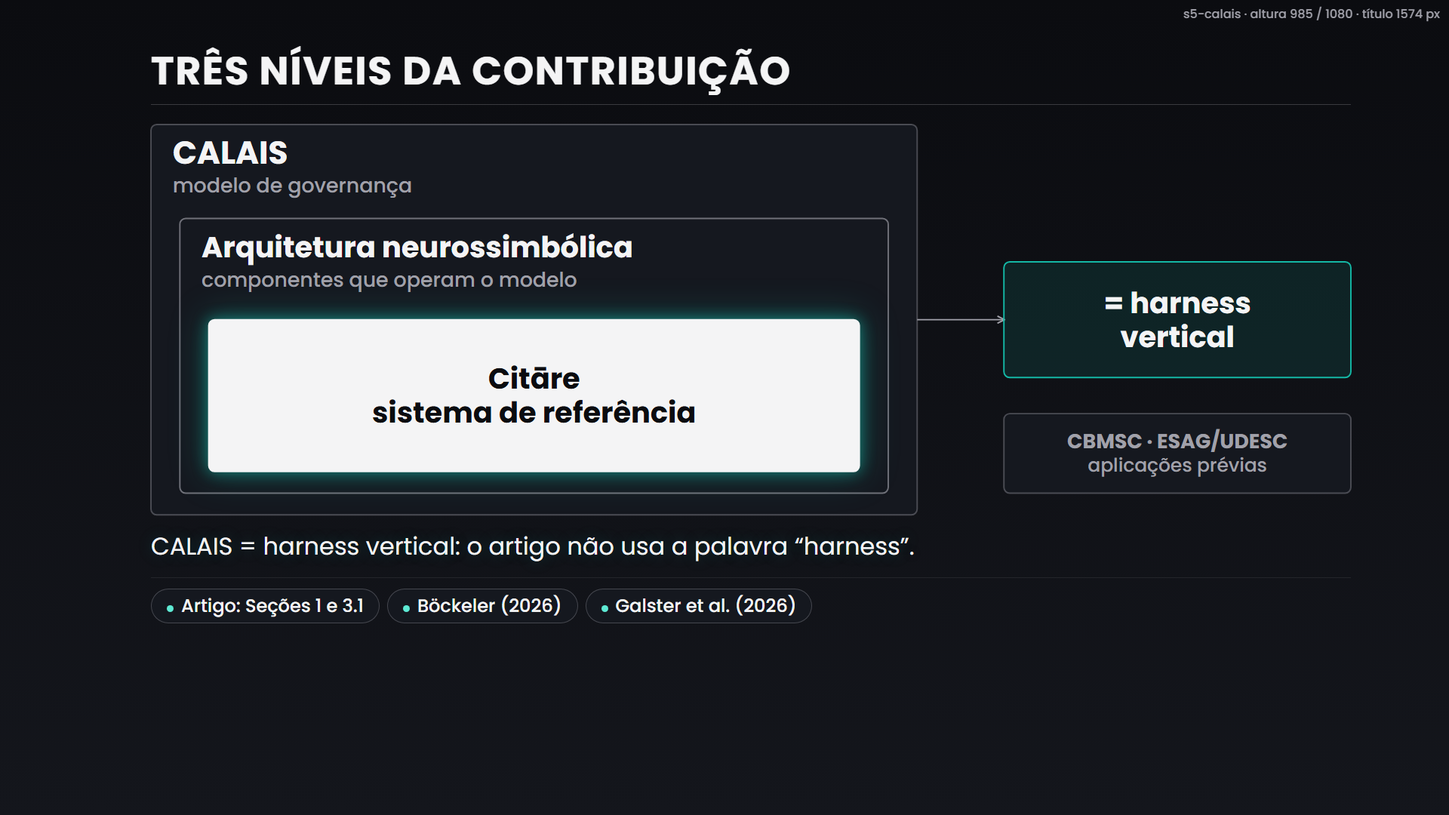
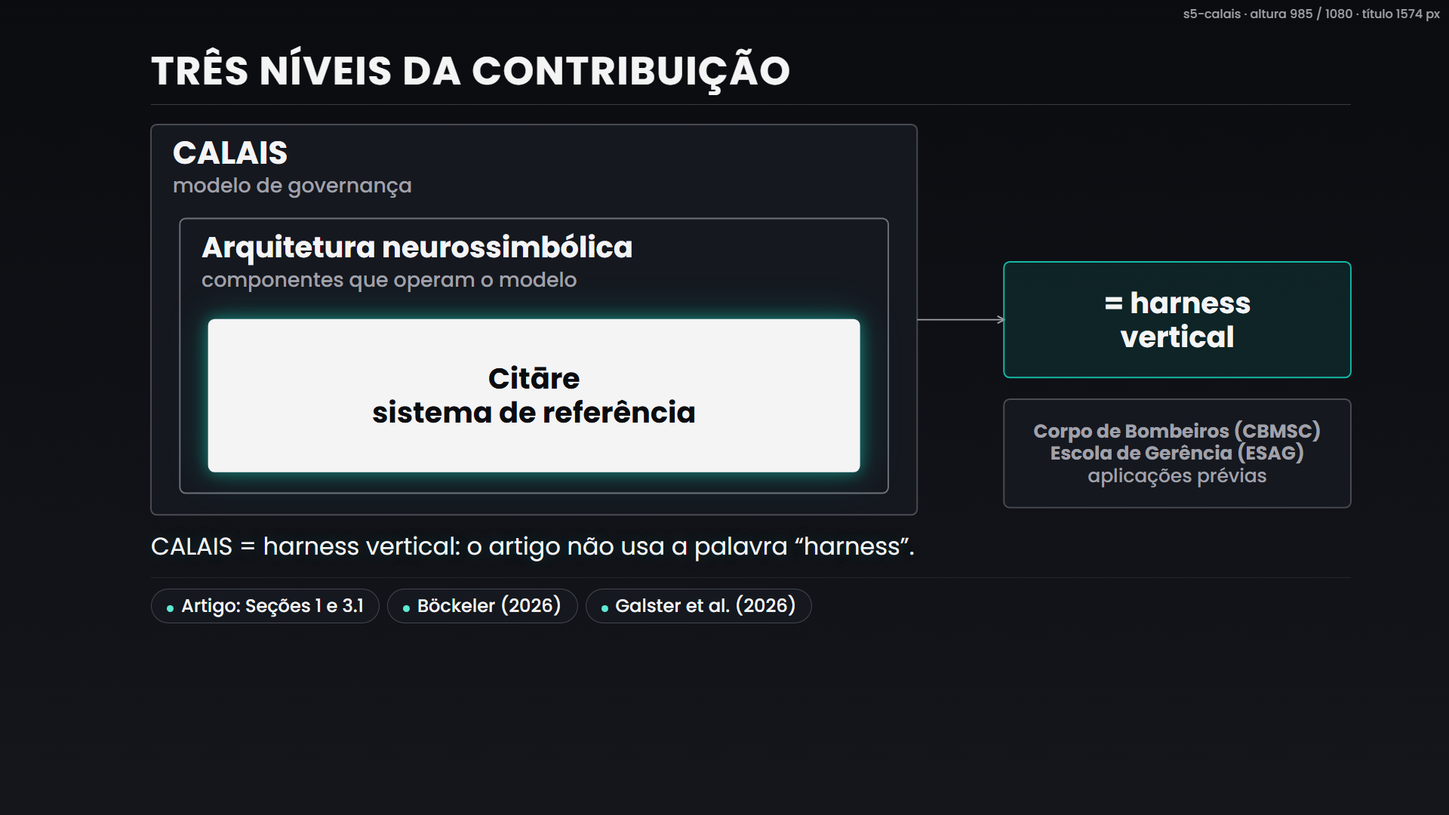
Painéis: erro em vermelho (sem âmbar), Rudin fiel, ESAG por extenso, portas em série para as quatro condições e referências que cabem na tela

Changed region(s): [[0.6875, 0.4889, 0.9375, 0.6111]]

diff --git a/web/paineis.js b/web/paineis.js
@@ -71,7 +71,8 @@
       K.text({ x: 910, y: 261, t: 'PPGEGC / UFSC', size: 28, tone: 'nevoa' }) +
       K.icon('db', { x: 800, y: 340, s: 80, step: 8 }) +
       K.text({ x: 910, y: 382, t: 'CBMSC · ESAG/UDESC', size: 44, weight: 'b' }) +
-      K.text({ x: 910, y: 426, t: 'evidência exploratória, em Santa Catarina', size: 28, tone: 'nevoa' }),
+      K.text({ x: 910, y: 424, t: 'Corpo de Bombeiros Militar de Santa Catarina', size: 26, tone: 'nevoa' }) +
+      K.text({ x: 910, y: 456, t: 'Escola Superior de Administração e Gerência (UDESC)', size: 26, tone: 'nevoa' }),
       'Ficha do artigo: três níveis de contribuição, autor e casos'),
     'Modelo, arquitetura e sistema de referência; evidência exploratória de dois casos.',
     [F('art-dsr', 'Artigo: método DSR'), F('art-escopo', 'Artigo: escopo')], { cred: 'Título e dados do artigo #160 (versão final).' });
@@ -79,7 +80,7 @@
     '<dl class="ficha"><dt>Título (EN)</dt><dd><em>Neurosymbolic Artificial Intelligence and Knowledge Engineering: Beyond Hallucinations and Auditable Decisions in the Intelligent State</em></dd>' +
     '<dt>Artigo</dt><dd>#160 · CIKI 2026 · apresentação em 28/10/2026</dd><dt>Autor</dt><dd>Alexandre Pinto Calaes · PPGEGC/UFSC</dd>' +
     '<dt>Método</dt><dd>Design Science Research (DSR), em seis ciclos rastreáveis</dd>' +
-    '<dt>Evidência</dt><dd>Aplicações prévias no CBMSC e na ESAG/UDESC: exploratória, em Santa Catarina</dd><dt>Apoio</dt><dd>CAPES, Finance Code 001</dd></dl>',
+    '<dt>Evidência</dt><dd>Aplicações prévias no Corpo de Bombeiros Militar de Santa Catarina (CBMSC) e na Escola Superior de Administração e Gerência (ESAG/UDESC): exploratória, em Santa Catarina</dd><dt>Apoio</dt><dd>CAPES, Finance Code 001</dd></dl>',
     [F('art-dsr', 'Artigo: método DSR'), F('art-escopo', 'Artigo: escopo')]);
 
   /* s1-paleta: quatro pinos + legenda de cores */
@@ -159,7 +160,7 @@
       g += K.bar({ x: 1180, y: 70 + i * 66, w: 330, h: 42, v: pr[i], max: 0.6, t: a[0], val: pct(pr[i]) + '%', step: 1 + i, tone: i === 0 ? 'err' : 'gelo' });
     });
     g += K.text({ x: 0, y: 300, t: 'plausível, mas sem fonte', size: 30, tone: 'err' });
-    panel('s2-softmax', 'Por que o modelo alucina', K.svg(W, 420, g, 'Fórmula softmax e barras de probabilidade com uma barra âmbar'),
+    panel('s2-softmax', 'Por que o modelo alucina', K.svg(W, 420, g, 'Fórmula softmax e barras de probabilidade com uma barra vermelha'),
       'O modelo escolhe o provável, não o verdadeiro. Valores ilustrativos.',
       [F('huang2025', 'Huang et al. (2025)'), F('softmax', 'Definição da softmax')], { selos: [sel('ilustrativo', 'sol')] });
     det('s2-softmax', 'Softmax: detalhes',
@@ -223,17 +224,16 @@
   panel('s3-rudin', 'Explicar depois não basta',
     K.svg(W, 400,
       K.lane({ x: 0, y: 0, w: W, h: 170, t: '', step: 1 }) + K.lane({ x: 0, y: 220, w: W, h: 170, t: '', step: 5 }) +
-      K.box({ x: 60, y: 45, w: 330, h: 80, t: 'decide', step: 2, tone: 'nevoa' }) + K.arrow({ pts: [[390, 85], [560, 85]], step: 3, tone: 'nevoa' }) +
-      K.box({ x: 560, y: 45, w: 330, h: 80, t: 'dano', step: 3, tone: 'err' }) + K.arrow({ pts: [[890, 85], [1060, 85]], step: 4, tone: 'nevoa' }) +
-      K.box({ x: 1060, y: 45, w: 420, h: 80, t: 'explica depois', step: 4, tone: 'nevoa' }) +
-      K.box({ x: 60, y: 265, w: 330, h: 80, t: 'verifica antes', step: 6, fill: true }) + K.arrow({ pts: [[390, 305], [560, 305]], step: 7 }) +
-      K.box({ x: 560, y: 265, w: 330, h: 80, t: 'assina', step: 8, fill: 'solid' }),
-      'Duas linhas do tempo: explicar depois e verificar antes'),
-    'Em decisão de alto impacto, a prova vem antes da assinatura (Rudin, 2019).',
-    [F('rudin', 'Rudin (2019)'), F('art-tab1', 'Artigo: Tabela 1')]);
+      K.box({ x: 60, y: 45, w: 380, h: 80, t: 'caixa-preta decide', step: 2, tone: 'nevoa', size: 28 }) + K.arrow({ pts: [[440, 85], [600, 85]], step: 3, tone: 'nevoa' }) +
+      K.box({ x: 600, y: 45, w: 420, h: 80, t: 'explica depois', step: 4, tone: 'nevoa', size: 28 }) +
+      K.box({ x: 60, y: 265, w: 560, h: 80, t: 'modelo interpretável desde o início', step: 6, fill: true, size: 28 }) + K.arrow({ pts: [[620, 305], [780, 305]], step: 7 }) +
+      K.box({ x: 780, y: 265, w: 330, h: 80, t: 'decisão', step: 8, fill: 'solid', size: 28 }),
+      'Duas linhas do tempo: caixa-preta explicada depois e modelo interpretável desde o início'),
+    'Rudin (2019): em decisões de alto risco, usar modelos interpretáveis desde o início, em vez de explicar caixas-pretas depois.',
+    [F('rudin', 'Rudin (2019)'), F('art-tab1', 'Artigo: Tabela 1')], { cred: 'O artigo cita Rudin para sustentar que a explicação posterior não basta; o remédio proposto aqui é verificar antes da liberação.' });
   det('s3-rudin', 'Rudin (2019): detalhes',
-    '<p class="quote">“Stop explaining black box machine learning models for high stakes decisions and use interpretable models instead.”</p><p class="nota">Nature Machine Intelligence, 1, 206–215. A autora recomenda modelos interpretáveis; o artigo usa o argumento sobre a fidelidade das explicações para defender mecanismos verificáveis.</p>' +
-    '<ul class="pt-list"><li>Explicações a posteriori podem não representar a lógica real da caixa-preta em contextos críticos.</li><li>Em decisões de alto impacto, elas não substituem mecanismos verificáveis.</li><li>Explicar ajuda a compreender, mas não substitui evidência nem responsabilização.</li></ul>',
+    '<p class="quote">“Stop explaining black box machine learning models for high stakes decisions and use interpretable models instead.”</p><p class="nota">Rudin, C. (2019). Nature Machine Intelligence, 1, 206–215.</p>' +
+    '<ul class="pt-list"><li>Rudin defende usar modelos interpretáveis desde o início em decisões de alto risco, em vez de explicar caixas-pretas depois.</li><li>O artigo #160 cita o trabalho para sustentar que explicações a posteriori podem não representar a lógica real da caixa-preta e não substituem evidência nem responsabilização.</li><li>Diferença: Rudin propõe modelos interpretáveis; o artigo propõe verificar antes da liberação, com regras, rastro e decisão humana.</li></ul>',
     [F('rudin', 'Rudin (2019)')]);
 
   /* =========================================================
@@ -313,15 +313,17 @@
     tbl(['1fr', '1fr', '1fr'], ['At(y)', 'H(y)', 'L(y)'], [['F', 'F', 'F'], ['F', 'V', 'F'], ['V', 'F', '<span class="block">F: não liberado</span>'], { cls: 'dest', c: ['V', 'V', 'V: liberado'] }]) +
     '<p class="nota">F = falso, V = verdadeiro. A pessoa pode manter, modificar ou rejeitar a recomendação (artigo, Seção 3.1).</p>', [F('art-eq', 'Artigo: Equação 3')]);
 
-  panel('s4-formula', 'Admissível = evidência, norma e rastro',
-    K.svg(W, 480,
-      K.formula({ x: 0, y: 0, w: 1500, h: 120, size: 78, t: 'At(y) = E(y, R) ∧ N(y, Ω) ∧ T(y)' }) +
-      K.text({ x: 0, y: 150, t: 'At = admissível · E = evidência · N = norma · T = rastro', size: 28, tone: 'nevoa' }) +
-      K.gate({ x: 620, y: 190, w: 170, h: 250, t: '∧', ins: ['evidência', 'norma', 'rastro'], out: 'admissível', step: 1, stub: 80 }) +
-      K.text({ x: 1160, y: 330, t: 'especificação,', size: 32, tone: 'nevoa' }) + K.text({ x: 1160, y: 372, t: 'não garantia', size: 32, tone: 'nevoa' }),
-      'Porta AND com três entradas: evidência, norma e rastro'),
-    'Um pino falso bloqueia: nos logs reais, F ∧ F ∧ F e F ∧ V ∧ V bloquearam.',
-    [F('art-eq', 'Artigo: Equação 2'), F('hnv-cena2b', 'Cena 2b'), F('hnv-laco', 'Laço local')]);
+  panel('s4-formula', 'Como o sistema decide',
+    K.svg(W, 520,
+      K.formula({ x: 0, y: 0, w: 1100, h: 100, size: 64, t: 'At = E ∧ N ∧ T', step: 1 }) + K.formula({ x: 760, y: 0, w: 900, h: 100, size: 64, t: 'L = At ∧ H', step: 5 }) +
+      K.text({ x: 0, y: 130, t: 'At = admissível · E = evidência · N = norma · T = rastro · L = liberação · H = humano', size: 26, tone: 'nevoa' }) +
+      K.gate({ x: 360, y: 190, w: 150, h: 240, t: '∧', ins: ['evidência', 'norma', 'rastro'], step: 2, stub: 80 }) +
+      K.arrow({ pts: [[590, 310], [680, 310], [680, 283], [830, 283]], noHead: true, step: 3 }) + K.text({ x: 640, y: 262, t: 'admissível', size: 28, anchor: 'middle' }) +
+      K.gate({ x: 830, y: 230, w: 130, h: 170, t: '∧', ins: ['', 'humano'], step: 4, stub: 60, out: 'liberação' }) +
+      K.pic('bloqueio', { x: 1330, y: 220, s: 96, tone: 'block', step: 6, t: 'Portão fechado' }),
+      'Duas portas em série: três condições tornam admissível; com a quarta, o humano, libera'),
+    'Três condições tornam o parecer admissível; só com a quarta, o humano, ele é liberado.',
+    [F('art-eq', 'Artigo: Equações 2 e 3'), F('hnv-cena2b', 'Cena 2b'), F('hnv-laco', 'Laço local')], { selos: [sel('especificação, não garantia', 'sol')] });
   det('s4-formula', 'Equação 2 e execuções: detalhes',
     tbl(['520px', '230px', '1fr', '300px'], ['Execução', 'E ∧ N ∧ T', 'O que o hook apontou', 'Resultado'], [
       ['Cena 2b: rascunho do modelo local 3B', '<b>F ∧ F ∧ F</b>', '2 citações bloqueadas', '<span class="block">bloqueado (exit 2)</span>'],
@@ -352,7 +354,7 @@
       [F('pseudocodigo', 'Pseudocódigo (ilustrativo)'), F('art-eq', 'Artigo: Equações 2 e 3')], { selos: [sel('ilustrativo, do autor', 'sol')] });
     det('s4-regras', 'Tabela-verdade (16 linhas): detalhes',
       '<div class="dois">' + tbl(['1fr', '1fr', '1fr', '1fr', '1fr', '1fr'], ['E', 'N', 'T', 'H', 'At', 'L'], rows.slice(0, 8), 'tv') + tbl(['1fr', '1fr', '1fr', '1fr', '1fr', '1fr'], ['E', 'N', 'T', 'H', 'At', 'L'], rows.slice(8), 'tv') + '</div>' +
-      '<p class="nota">Só a linha destacada libera; em âmbar, a admissível mas não liberada. “:-” lê-se “se”.</p>', [F('pseudocodigo', 'Pseudocódigo (ilustrativo)'), F('art-eq', 'Artigo: Equações 2 e 3')]);
+      '<p class="nota">Só a linha destacada libera; em vermelho, a admissível mas não liberada. “:-” lê-se “se”.</p>', [F('pseudocodigo', 'Pseudocódigo (ilustrativo)'), F('art-eq', 'Artigo: Equações 2 e 3')]);
   })();
 
   /* =========================================================
@@ -384,7 +386,7 @@
       K.box({ x: 80, y: 270, w: 900, h: 210, t: ['Citāre', 'sistema de referência'], size: 40, step: 3, fill: 'solid' }) +
       K.arrow({ pts: [[1060, 270], [1180, 270]], step: 4, tone: 'nevoa', dash: true }) +
       K.box({ x: 1180, y: 190, w: 480, h: 160, t: ['= harness', 'vertical'], size: 40, step: 5, fill: true }) +
-      K.box({ x: 1180, y: 400, w: 480, h: 110, t: 'CBMSC · ESAG/UDESC', s: 'aplicações prévias', step: 6, tone: 'nevoa' }),
+      K.box({ x: 1180, y: 380, w: 480, h: 150, t: ['Corpo de Bombeiros (CBMSC)', 'Escola de Gerência (ESAG)'], s: 'aplicações prévias', size: 26, step: 6, tone: 'nevoa' }),
       'Três níveis aninhados e a ponte com o harness'),
     'CALAIS = harness vertical: o artigo não usa a palavra “harness”.',
     [F('art-arq', 'Artigo: Seções 1 e 3.1'), F('bockeler2026', 'Böckeler (2026)'), F('galster2026', 'Galster et al. (2026)')]);
@@ -452,8 +454,8 @@
     g += K.dot({ cx: 20, cy: 270, r: 12, hollow: true, tone: 'nevoa', t: 'caixa = instância', step: 14 }) + K.text({ x: 54, y: 322, t: ': Classe', size: 26, tone: 'nevoa' }) +
       K.text({ x: 54, y: 380, t: 'exemplo fictício', size: 26, tone: 'nevoa' });
     panel('s6-ontologia', 'Ontologia do Citāre', K.svg(W, 520, g, 'Cadeia do artigo ao trecho e à auditoria da fonte'),
-      'O artigo foi conferido com o Citāre, com revisão humana. Dados do CBMSC/ESAG não avaliam o Citāre.',
-      [F('ont-citare', 'Ontologia do Citāre (v05)'), F('studer1998', 'Studer et al. (1998)'), F('art-citare', 'Artigo: declaração de uso')], { selos: [sel('material didático', 'sol')] });
+      'O artigo foi conferido com o Citāre, com revisão humana. Dados do CBMSC e da ESAG não avaliam o Citāre.',
+      [F('ont-citare', 'Ontologia do Citāre (v05)'), F('studer1998', 'Studer et al. (1998)'), F('art-citare', 'Artigo: declaração de uso')], { selos: [sel('material didático', 'sol')], cred: 'CBMSC: Corpo de Bombeiros Militar de Santa Catarina. ESAG: Escola Superior de Administração e Gerência (UDESC).' });
   })();
   det('s6-ontologia', 'Ontologia: detalhes',
     '<ul class="pt-list"><li><b>Ontologia:</b> “especificação explícita e formal de uma conceitualização compartilhada” (Studer, Benjamins e Fensel, 1998, a partir de Gruber, 1993).</li><li><b>T-box</b> (terminologia): classes e relações. Três grupos: Conteúdo acadêmico (Artigo, Seção, Parágrafo, Afirmação, Citação); Evidência e fonte (Fonte, Arquivo PDF, Trecho); Controle (Auditoria, Estado).</li><li><b>A-box</b> (asserções): instâncias e suas ligações, como Artigo 42 e Auditoria 7.</li><li>Instâncias do desenho são fictícias, para ensinar a leitura; as classes intermediárias são didáticas.</li></ul><p class="nota"><b>Dados do CBMSC/ESAG não avaliam o Citāre.</b></p>',
@@ -468,13 +470,13 @@
       K.box({ x: 0, y: 400, w: 800, h: 110, t: 'exportação bloqueia', s: 'na etapa que falta', size: 30, tone: 'block', step: 6 }) +
       K.arrow({ pts: [[1437, 310], [1437, 400]], step: 7 }) + K.box({ x: 1040, y: 400, w: 620, h: 110, t: 'exportação passa', s: 'cada citação tem evidência exata', size: 30, step: 8, fill: true }),
       'Quatro estados da fonte e onde a exportação bloqueia'),
-    'Conferido com o Citāre, com revisão humana. Dados do CBMSC/ESAG não avaliam o Citāre.',
-    [F('art-citare', 'Artigo: declaração de uso de IA'), F('ont-citare', 'Ontologia do Citāre (v05)')], { selos: [sel('material didático', 'sol')] });
+    'Conferido com o Citāre, com revisão humana. Dados do CBMSC e da ESAG não avaliam o Citāre.',
+    [F('art-citare', 'Artigo: declaração de uso de IA'), F('ont-citare', 'Ontologia do Citāre (v05)')], { selos: [sel('material didático', 'sol')], cred: 'CBMSC: Corpo de Bombeiros Militar de Santa Catarina. ESAG: Escola Superior de Administração e Gerência (UDESC).' });
   det('s6-regras', 'Regras e declaração: detalhes',
     '<p><span class="chip">autoria</span> <span class="chip">ano</span> <span class="chip">DOI</span> O marcador (Silva, 2022) precisa corresponder a uma obra registrada; o DOI identifica cada obra.</p>' +
     '<ul class="pt-list"><li><b>quarantined:</b> dado ausente, não confirmado ou divergente.</li><li><b>identity_verified:</b> obra identificada; origem do texto ainda não.</li><li><b>text_verified:</b> pode ser anexada ao artigo.</li><li><b>evidence_ready:</b> trecho validado ligado a uma afirmação.</li><li><b>Bloqueios:</b> bibliographic_match (obra não achada entre as fontes), recovery (PDF não recuperado), source_audit (fonte em quarentena), exact_evidence (falta o vínculo da afirmação exata).</li></ul>' +
     '<p class="nota"><b>Declaração de uso de IA do artigo:</b> o autor usou o Citāre, plataforma de assessoria acadêmica com supervisão humana, para apoiar a redação e a verificação de citações; o texto foi guiado pelas fontes da coleção do autor (RAG), com regras de autoria, ano e DOI. Todo conteúdo e toda citação sugeridos foram revisados e aprovados pelo autor, que assume plena responsabilidade, sem atribuir autoria à IA.</p>' +
-    '<p class="nota"><b>Dados do CBMSC/ESAG não avaliam o Citāre.</b></p>',
+    '<p class="nota"><b>Dados do Corpo de Bombeiros Militar de Santa Catarina (CBMSC) e da Escola Superior de Administração e Gerência (ESAG/UDESC) não avaliam o Citāre.</b></p>',
     [F('art-citare', 'Artigo: declaração de uso de IA'), F('ont-citare', 'Ontologia do Citāre (v05)')]);
 
   panel('s6-triplas', 'Triplas e recuperação (Eq. 1)',
@@ -493,7 +495,7 @@
       [':Artigo42', 'a', ':Artigo'], [':Artigo42', ':temSecao', ':Introducao'], [':Introducao', ':contem', ':Paragrafo4'], [':Paragrafo4', ':expressa', ':A1'], [':A1', ':temCitacao', ':CitSilva2022'],
       [':CitSilva2022', ':identifica', ':ObraSilva2022'], [':ObraSilva2022', ':temCopiaEm', ':PDFSilva2022'], [':PDFSilva2022', ':contem', ':Trecho_p4'],
       { cls: 'dest', c: [':Trecho_p4', ':podeApoiar', ':A1'] }, [':Auditoria7', ':confere', ':PDFSilva2022'], [':Auditoria7', ':produzResultado', ':EvidenceReady']], 'trip') +
-    '<p class="nota">Modelagem do autor a partir da Atividade v05; “a” significa “é instância de”; predicados adaptados; instância (Silva, 2022) fictícia. Dados do CBMSC/ESAG não avaliam o Citāre.</p>',
+    '<p class="nota">Modelagem do autor a partir da Atividade v05; “a” significa “é instância de”; predicados adaptados; instância (Silva, 2022) fictícia. Dados do CBMSC e da ESAG (Escola Superior de Administração e Gerência) não avaliam o Citāre.</p>',
     [F('ont-citare', 'Ontologia do Citāre (v05)'), F('pseudocodigo', 'Triplas (ilustrativas)')]);
 
   /* =========================================================
@@ -542,7 +544,7 @@
   (function () {
     var rows = [['Contexto', 'operacional', 'seleção acadêmica', null, null], ['Etapa', 'operação observada', 'versão beta', null, null],
       ['NASA-TLX', 'seis registros', 'não identificado', true, false], ['Logs', 'disponíveis', 'sem medida comparável', true, false]];
-    var g = K.box({ x: 360, y: 0, w: 640, h: 80, t: 'CBMSC', size: 34, step: 1, fill: true }) + K.box({ x: 1020, y: 0, w: 640, h: 80, t: 'ESAG/UDESC', size: 34, step: 1, fill: true });
+    var g = K.box({ x: 360, y: 0, w: 640, h: 80, t: 'Bombeiros (CBMSC)', size: 32, step: 1, fill: true }) + K.box({ x: 1020, y: 0, w: 640, h: 80, t: 'Escola de Gerência (ESAG/UDESC)', size: 32, step: 1, fill: true });
     rows.forEach(function (r, i) {
       var y = 110 + i * 100;
       g += K.text({ x: 0, y: y + 40, t: r[0], size: 30, tone: 'nevoa' });
@@ -554,7 +556,8 @@
       'Os casos não são comparados quantitativamente e não avaliam o Citāre.', [F('art-tab4', 'Artigo: Tabela 4'), F('art-escopo', 'Artigo: escopo')],
       { cred: '● disponível · ○ não identificado no material analisado.' });
     det('s7-tab4', 'Tabela 4: detalhes',
-      tbl(['300px', '1fr', '1fr'], ['Dimensão', 'CBMSC', 'ESAG/UDESC'], [
+      '<p class="nota">CBMSC: Corpo de Bombeiros Militar de Santa Catarina. ESAG/UDESC: Escola Superior de Administração e Gerência da Universidade do Estado de Santa Catarina.</p>' +
+        tbl(['300px', '1fr', '1fr'], ['Dimensão', 'Corpo de Bombeiros (CBMSC)', 'Escola de Gerência (ESAG/UDESC)'], [
         ['Contexto', 'Processo público-operacional', 'Processo público-acadêmico de seleção'], ['Etapa', 'Operação assistida observada', 'Versão derivada em fase beta'],
         ['Raw NASA-TLX', 'Seis registros associados a dois identificadores', 'Não identificado no material analisado'],
         ['Logs de operação', 'Disponíveis para envio de mensagens, infraestrutura e aquecimento', 'Nenhuma medida diretamente comparável identificada'],
@@ -773,7 +776,7 @@
       'Cinco limites, cada um com cadeado'),
     'O próximo passo é o estudo pareado em quatro condições.', [F('art-escopo', 'Artigo: escopo'), F('art-nasa', 'Artigo: Tabela 5'), F('hnv-laco', 'Laço local'), F('hnv-ontologia', 'Ontologia (18 fontes)')], { selos: [sel('exploratório')] });
   det('s11-limites', 'Limites: detalhes',
-    '<ul class="pt-list"><li>Situado em Santa Catarina: validade externa limitada; evidência exploratória e descritiva.</li><li>Seis registros são tarefas, não pessoas; cinco vêm da mesma conta; sem comparação manual. Os dados do CBMSC e da ESAG não avaliam o Citāre.</li><li>Confere citações, não raciocínio; bloqueado não é falso (Resolução 7/2005).</li><li>As 18 fontes da ontologia aguardam a validação do especialista.</li><li>O harness neurossimbólico vertical ainda não foi testado.</li></ul>',
+    '<ul class="pt-list"><li>Situado em Santa Catarina: validade externa limitada; evidência exploratória e descritiva.</li><li>Seis registros são tarefas, não pessoas; cinco vêm da mesma conta; sem comparação manual. Os dados do CBMSC e da ESAG (Escola Superior de Administração e Gerência) não avaliam o Citāre.</li><li>Confere citações, não raciocínio; bloqueado não é falso (Resolução 7/2005).</li><li>As 18 fontes da ontologia aguardam a validação do especialista.</li><li>O harness neurossimbólico vertical ainda não foi testado.</li></ul>',
     [F('art-escopo', 'Artigo: escopo'), F('art-nasa', 'Artigo: Tabela 5'), F('hnv-laco', 'Laço local'), F('hnv-ontologia', 'Ontologia (18 fontes)')]);
 
   /* =========================================================
@@ -790,18 +793,22 @@
       return '<div class="qa-c"><h3>' + (i + 1) + '. ' + q[0] + '</h3><p>' + q[1] + '</p><div class="fontes">' + q[2].map(function (f) { return F(f[0], f[1]); }).join('') + '</div></div>';
     }).join('') + '</div>' + foot([sel('preprint'), sel('pendente de validação')], 'Respostas preparadas a partir da avaliação independente do deck (27/10/2026). Reserva: não abrir na fala principal.') + '</div>';
 
+  function linkar(r) {
+    return r.replace(/(https?:\/\/\S+)/g, function (u) { var c = u.replace(/[.,;]$/, ''); return '<a href="' + c + '" target="_blank" rel="noopener noreferrer">[link]</a>'; });
+  }
   function refsHtml() {
+    return '<div class="panel-body"><h2 class="pt">' + TITULOS['r3-referencias'] + '</h2><div class="refs refs3 refscroll">' +
+      ART_REFS.slice(0, 9).map(function (r) { return '<p>' + linkar(r) + '</p>'; }).join('') + '</div>' +
+      foot([], 'Referências do artigo #160, 1 a 9 de 15 (cada [link] abre o DOI ou a página). As 6 restantes e as fontes de cada afirmação do deck estão em “detalhes”.') + '</div>';
+  }
+  function refsDet() {
     var fs = window.HNV_FONTES || {};
     var deck = Object.keys(fs).map(function (k) {
       var f = fs[k], st = String(f.status || '');
       var plain = /^confirmado( no artigo| nos logs)?$/.test(st);
-      return '<p><button class="fonte" data-src="' + k + '" style="font-size:22px;padding:6px 14px 7px">' + k + '</button> <span class="mut">' + f.fonte + '.</span>' + (plain ? '' : ' ' + sel(st.split(':')[0].split('(')[0], 'sol')) + '</p>';
+      return '<p><button class="fonte" data-src="' + k + '">' + k + '</button> ' + f.fonte + '.' + (plain ? '' : ' ' + sel(st.split(':')[0].split('(')[0], 'sol')) + '</p>';
     }).join('');
-    var art = ART_REFS.map(function (r) {
-      return '<p>' + r.replace(/(https?:\/\/\S+)/g, function (u) { var c = u.replace(/[.,;]$/, ''); return '<a href="' + c + '" target="_blank" rel="noopener noreferrer">' + c + '</a>'; }) + '</p>';
-    }).join('');
-    return '<div class="panel-body"><h2 class="pt">Referências</h2><div class="refs"><h3>Fontes das afirmações do deck</h3>' + (deck || '<p>Carregue fontes.js antes de paineis.js.</p>') +
-      '<h3 style="margin-top:22px">Referências do artigo</h3>' + art + '</div></div>';
+    return '<div class="panel-body det"><h2 class="pt">Detalhes: ' + TITULOS['r3-referencias'] + '</h2><h3>Referências do artigo, 10 a 15 de 15</h3><div class="refs refs3 refscroll" style="max-height:none;overflow:visible">' + ART_REFS.slice(9).map(function (r) { return '<p>' + linkar(r) + '</p>'; }).join('') + '</div><h3>Fontes das afirmações do deck</h3><div class="refs refs3 refscroll" style="max-height:none;overflow:visible">' + (deck || '<p>Carregue fontes.js antes de paineis.js.</p>') + '</div></div>';
   }
   var ART_REFS = [
  "Bollotti, J. J., & Wachowicz, M. (2024). A aplicação da inteligência artificial pela administração pública diante do princípio da eficiência. Revista da AGU, 23(4), 101–126. https://doi.org/10.25109/2525-328X.v.23.n.4.2024.3429",
@@ -821,6 +828,7 @@
  "Zen, H., Wagh, R., Wanderley, M., Bicalho, G., Park, R., Sun, M., Palacios, R., Carvalho, L., Rinaldo, G., & Gupta, A. (2025). Ensemble-based biometric verification: Defending against multi-strategy deepfake image generation. Computers, 14(6), Article 225. https://doi.org/10.3390/computers14060225"
 ];
   Object.defineProperty(P, 'r3-referencias', { enumerable: true, configurable: true, get: refsHtml });
+  Object.defineProperty(D, 'r3-referencias', { enumerable: true, configurable: true, get: refsDet });
 
 
   /* =========================================================

diff --git a/web/paineis.css b/web/paineis.css
@@ -81,3 +81,10 @@
 .panel-body .refs h3 { break-after: avoid; margin: 6px 0 12px; }
 .panel-body .refs a { color: var(--teal2); text-decoration: underline; word-break: break-all; }
 .panel-body .refs .selo, .panel-body .refs .fonte { text-indent: 0; margin-left: 8px; font-size: 20px; padding: 3px 10px; }
+.panel-body .refs.refs3 { column-count: 3; column-gap: 36px; }
+.panel-body .refs.refs3 p { padding-left: 0; text-indent: 0; }
+.panel-body .refs.refscroll { display: grid; grid-template-columns: repeat(3, 1fr); column-count: auto; column-gap: 32px; row-gap: 4px; align-items: start; max-height: 800px; overflow-y: auto; padding-right: 14px; scrollbar-width: auto; scrollbar-color: #14b8a6 #15181f; }
+.panel-body .refs.refscroll::-webkit-scrollbar { width: 14px; }
+.panel-body .refs.refscroll::-webkit-scrollbar-track { background: #15181f; border-radius: 8px; }
+.panel-body .refs.refscroll::-webkit-scrollbar-thumb { background: #14b8a6; border-radius: 8px; }
+.panel-body .refs.refscroll p { margin-bottom: 14px; line-height: 1.3; }

diff --git a/web/fontes.js b/web/fontes.js
@@ -19,7 +19,7 @@ window.HNV_FONTES = {
   "status": "parcial: faixa do preprint"
  },
  "rudin": {
-  "afirmacao": "Explicação pós-hoc não substitui mecanismos verificáveis em decisões de alto impacto",
+  "afirmacao": "Rudin (2019) defende usar modelos interpretáveis desde o início em decisões de alto risco, em vez de explicar caixas-pretas depois; o artigo cita o trabalho para sustentar que a explicação posterior não basta",
   "fonte": "Rudin (2019), Nature Machine Intelligence 1, 206–215, citado no artigo #160 (Discussão)",
   "url": "https://doi.org/10.1038/s42256-019-0048-x",
   "status": "confirmado no artigo"

diff --git a/web/auditar_deck.py b/web/auditar_deck.py
@@ -351,6 +351,11 @@ for hm in re.finditer(r'<h1 class="ttl[^"]*">(.*?)</h1>', html, re.S):
     if len(tit) > 45:
         erro(f"slide: título h1 de {len(tit)} caracteres (limite 45): {tit}")
 
+# texto para o público: o erro/bloqueio é VERMELHO; "âmbar" (e amarelo/laranja) não podem aparecer em painel
+for pid, conteudo in list(PAINEIS.items()) + [("detalhes:" + k, v) for k, v in DETALHES.items()]:
+    if re.search(r"[âa]mbar|amarel[oa]|laranja", HTML_TAG.sub(" ", conteudo) + " " + " ".join(re.findall(r'aria-label="([^"]*)"', conteudo)), re.I):
+        erro(f"{pid}: menciona âmbar/amarelo/laranja ao público (o erro e o bloqueio são vermelhos)")
+
 # prova documental (camada 3): imagens reais do artigo
 for img in ("figura1", "tabela1", "tabela2", "tabela3", "tabela4", "tabela5"):
     if not (pasta / "img" / "artigo" / f"{img}.png").exists():
